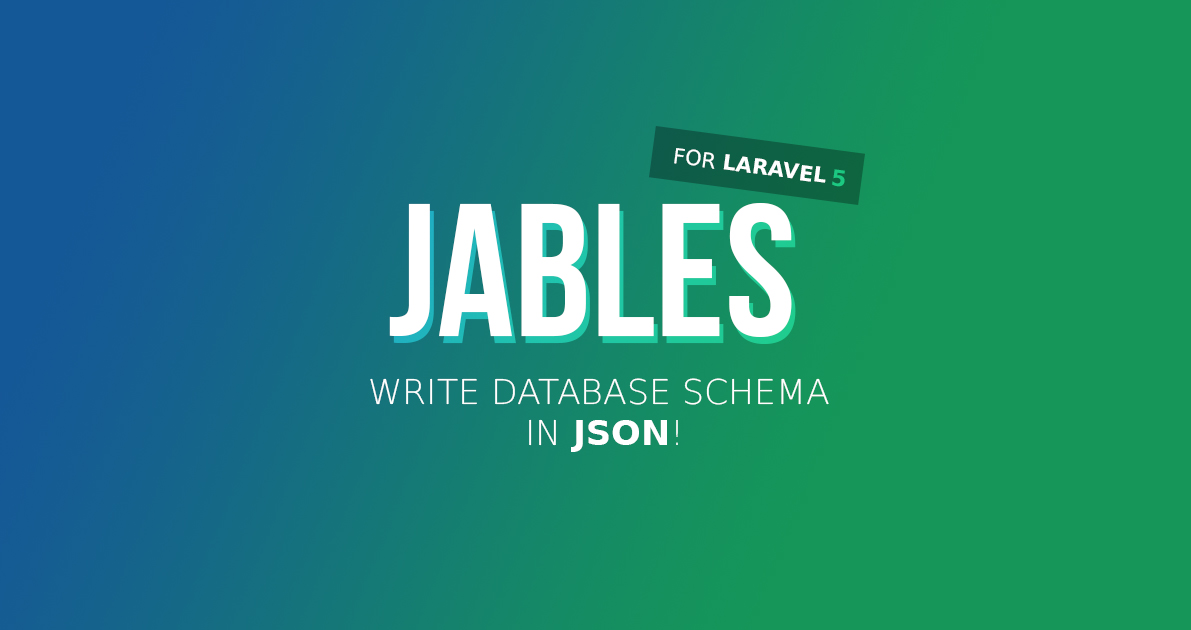
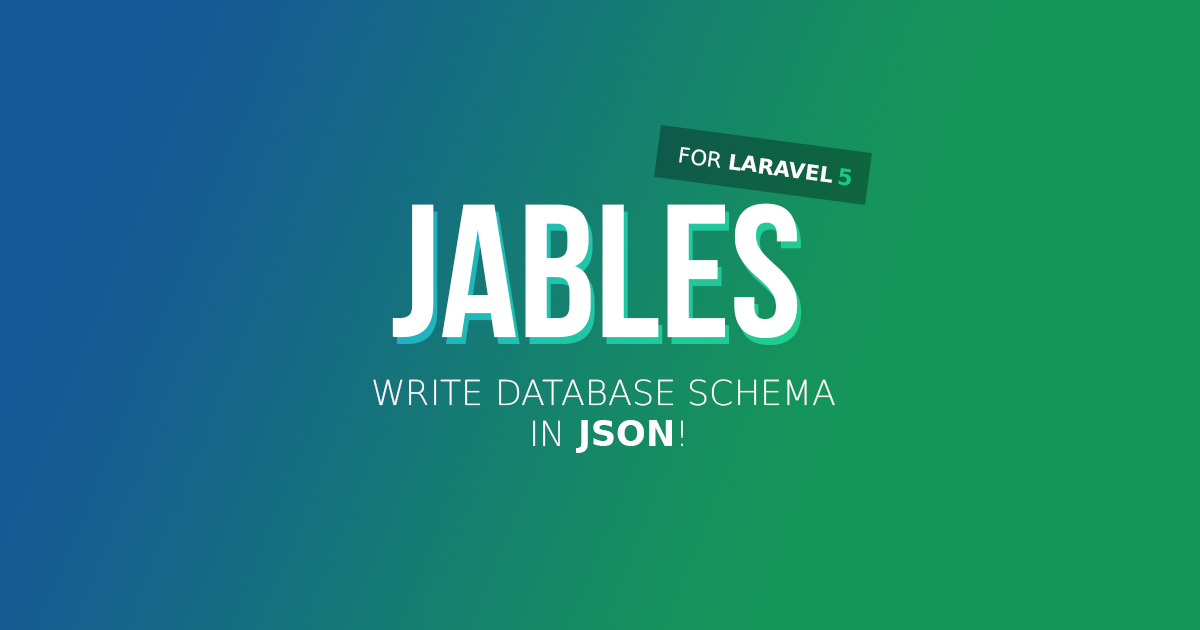
Try Again

diff --git a/index.html b/index.html
@@ -11,13 +11,13 @@
 
     <meta property="og:title" content="Jables by Hedronium" />
     <meta property="og:type" content="website" />
-    <meta property="og:site_name" content="Hedronium"/>
-    <meta property="og:url" content="http://www.hedron.link/Jables/" />
+    <meta property="og:site_name" content="Jables by Hedronium"/>
+    <meta property="og:url" content="http://www.hedron.link/Jables" />
     <meta property="og:description" content="Write Database Schema in JSON! (for Laravel5)" />
     <meta property="og:locale" content="en_US" /> 
 
     <meta property="og:image" content="http://www.hedron.link/Jables/open_graph.jpg" />
-    <meta property="og:image:width" content="1191" />
+    <meta property="og:image:width" content="1200" />
     <meta property="og:image:height" content="630" />
   </head>
   <body>
